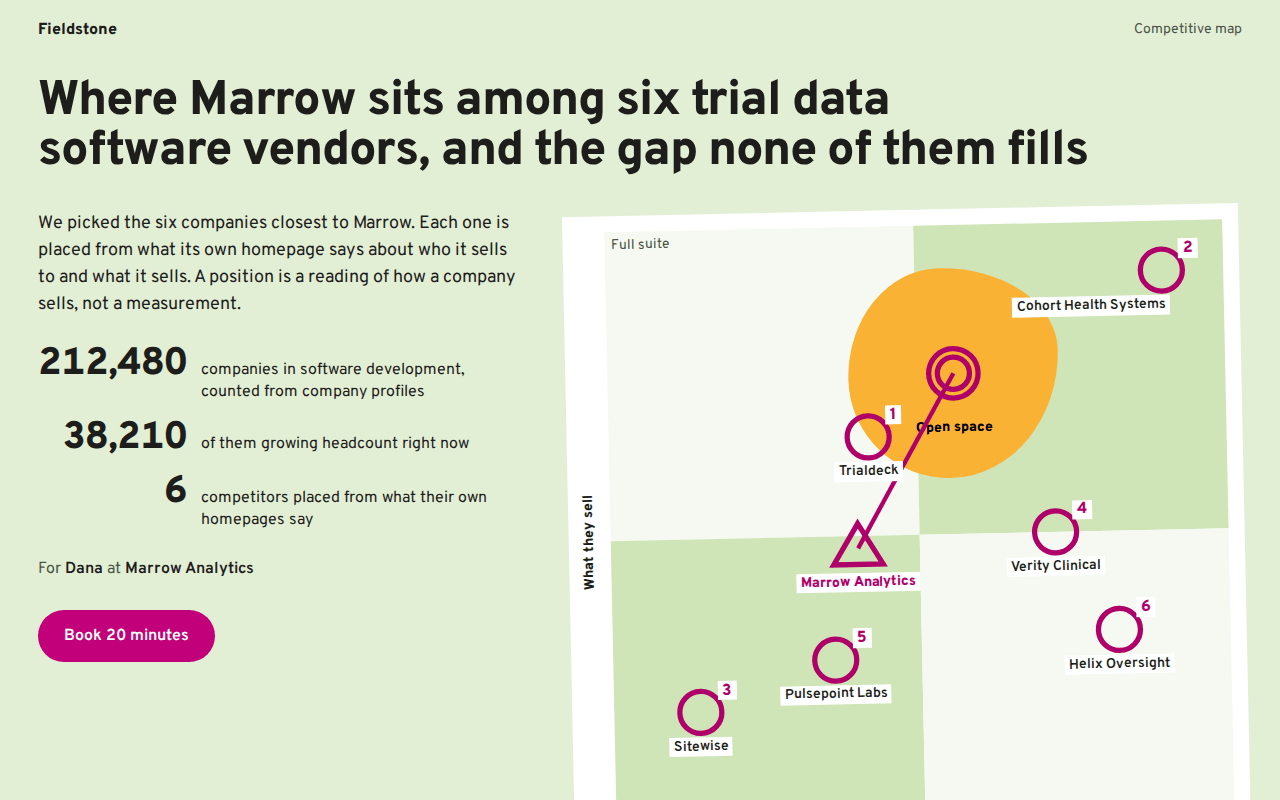
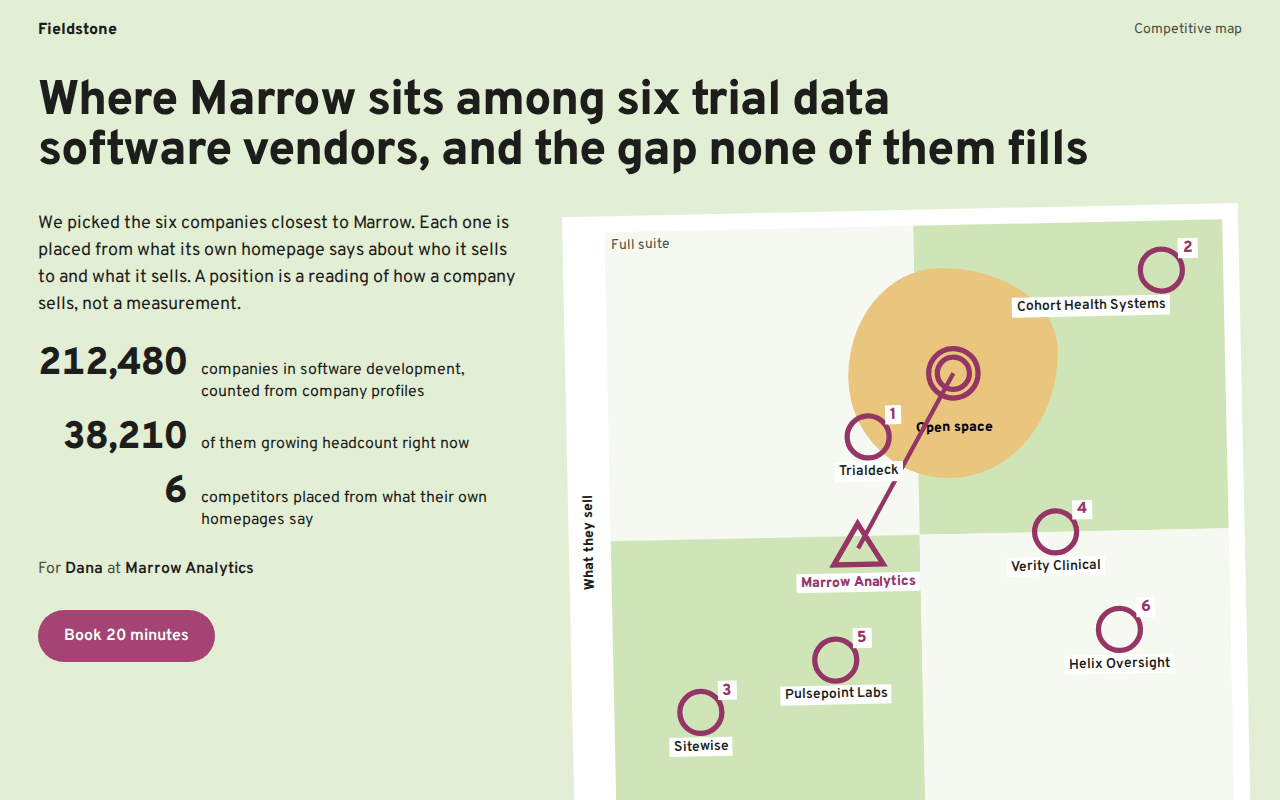
Library colour pass: competitor-map, softer magenta overprint and open land

diff --git a/starters/competitor-map/preview/marrow.html b/starters/competitor-map/preview/marrow.html
@@ -10,8 +10,8 @@
 *{box-sizing:border-box}
 html{-webkit-text-size-adjust:100%}
 body{margin:0;background:#fff;color:#1d1d1b;font-family:'Overpass',ui-sans-serif,system-ui,sans-serif;font-size:17px;line-height:1.5;-webkit-font-smoothing:antialiased}
-.cm{--a:#c2007a;--a2:#f9b233;--ink:#1d1d1b;--soft:#4b4f48;--paper:#fff;--grass:#e2efd5;--wood:#cfe5b8;
---mark:#c2007a;--mark:oklch(from var(--a) min(l,0.48) c h);
+.cm{--a:#a54474;--a2:#e9c57d;--ink:#1d1d1b;--soft:#4b4f48;--paper:#fff;--grass:#e2efd5;--wood:#cfe5b8;
+--mark:#a54474;--mark:oklch(from var(--a) min(l,0.48) c h);
 --on-a:#fff;--on-a:color(from var(--a) xyz-d65 clamp(0,(.18 - y) * 1000000,.9505) clamp(0,(.18 - y) * 1000000,1) clamp(0,(.18 - y) * 1000000,1.089));
 --on-a2:#1d1d1b;--on-a2:color(from var(--a2) xyz-d65 clamp(0,(.18 - y) * 1000000,.9505) clamp(0,(.18 - y) * 1000000,1) clamp(0,(.18 - y) * 1000000,1.089));
 --m:clamp(1.125rem,3vw,2.5rem);overflow-x:clip}

diff --git a/starters/competitor-map/preview/ridgeline-partial.html b/starters/competitor-map/preview/ridgeline-partial.html
@@ -10,7 +10,7 @@
 *{box-sizing:border-box}
 html{-webkit-text-size-adjust:100%}
 body{margin:0;background:#fff;color:#1d1d1b;font-family:'Overpass',ui-sans-serif,system-ui,sans-serif;font-size:17px;line-height:1.5;-webkit-font-smoothing:antialiased}
-.cm{--a:#4a1d96;--a2:#f9b233;--ink:#1d1d1b;--soft:#4b4f48;--paper:#fff;--grass:#e2efd5;--wood:#cfe5b8;
+.cm{--a:#4a1d96;--a2:#e9c57d;--ink:#1d1d1b;--soft:#4b4f48;--paper:#fff;--grass:#e2efd5;--wood:#cfe5b8;
 --mark:#4a1d96;--mark:oklch(from var(--a) min(l,0.48) c h);
 --on-a:#fff;--on-a:color(from var(--a) xyz-d65 clamp(0,(.18 - y) * 1000000,.9505) clamp(0,(.18 - y) * 1000000,1) clamp(0,(.18 - y) * 1000000,1.089));
 --on-a2:#1d1d1b;--on-a2:color(from var(--a2) xyz-d65 clamp(0,(.18 - y) * 1000000,.9505) clamp(0,(.18 - y) * 1000000,1) clamp(0,(.18 - y) * 1000000,1.089));
